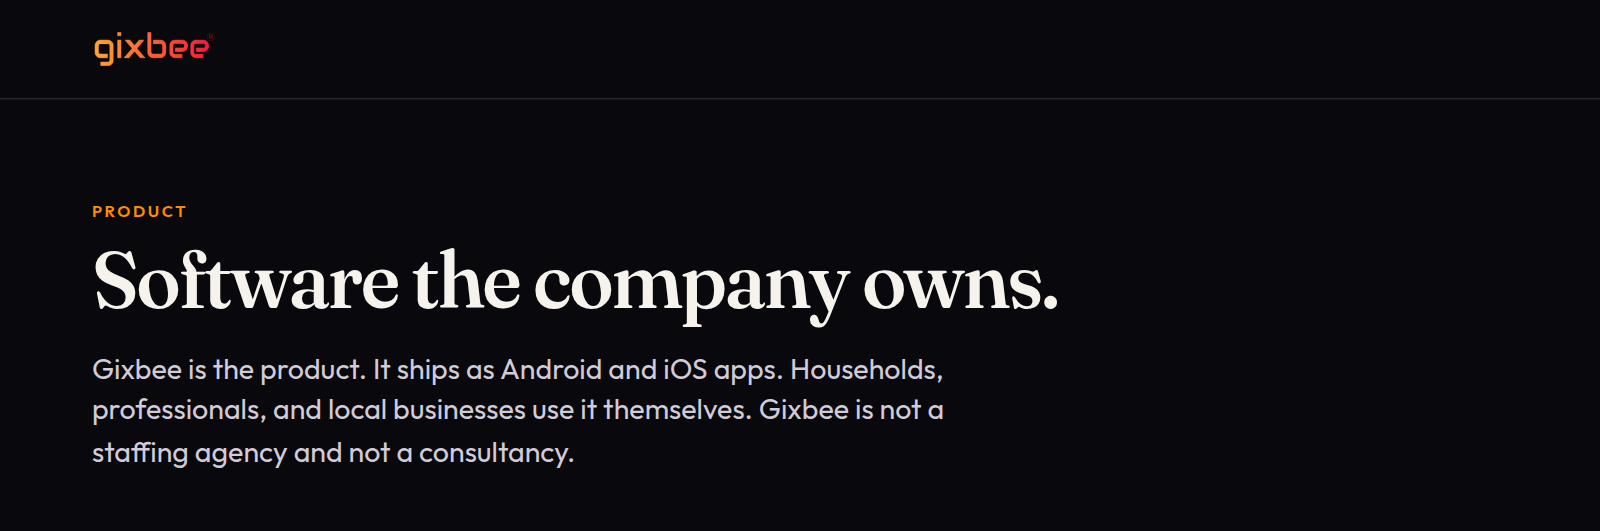
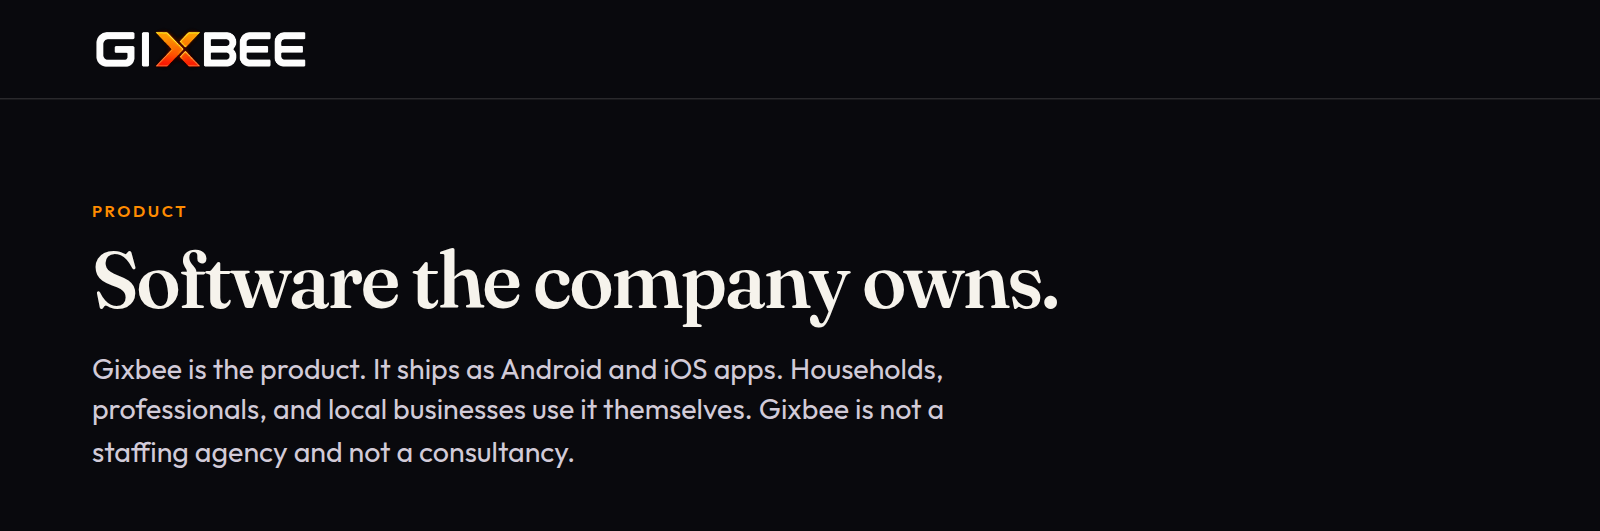
Use the new Gixbee wordmark on the public site.
The header, favicon, and Google Sites pictures now show the white wordmark with the orange X.

Changed region(s): [[0.0625, 0.0603, 0.1875, 0.1507]]

diff --git a/site/styles.css b/site/styles.css
@@ -84,7 +84,7 @@ p { margin: 0 0 14px; }
   min-height: 72px;
 }
 .brand { display: flex; align-items: center; text-decoration: none; }
-.brand img { height: 28px; width: auto; }
+.brand img { height: 36px; width: auto; }
 .nav-toggle { position: absolute; opacity: 0; pointer-events: none; }
 .nav-burger {
   display: none;
